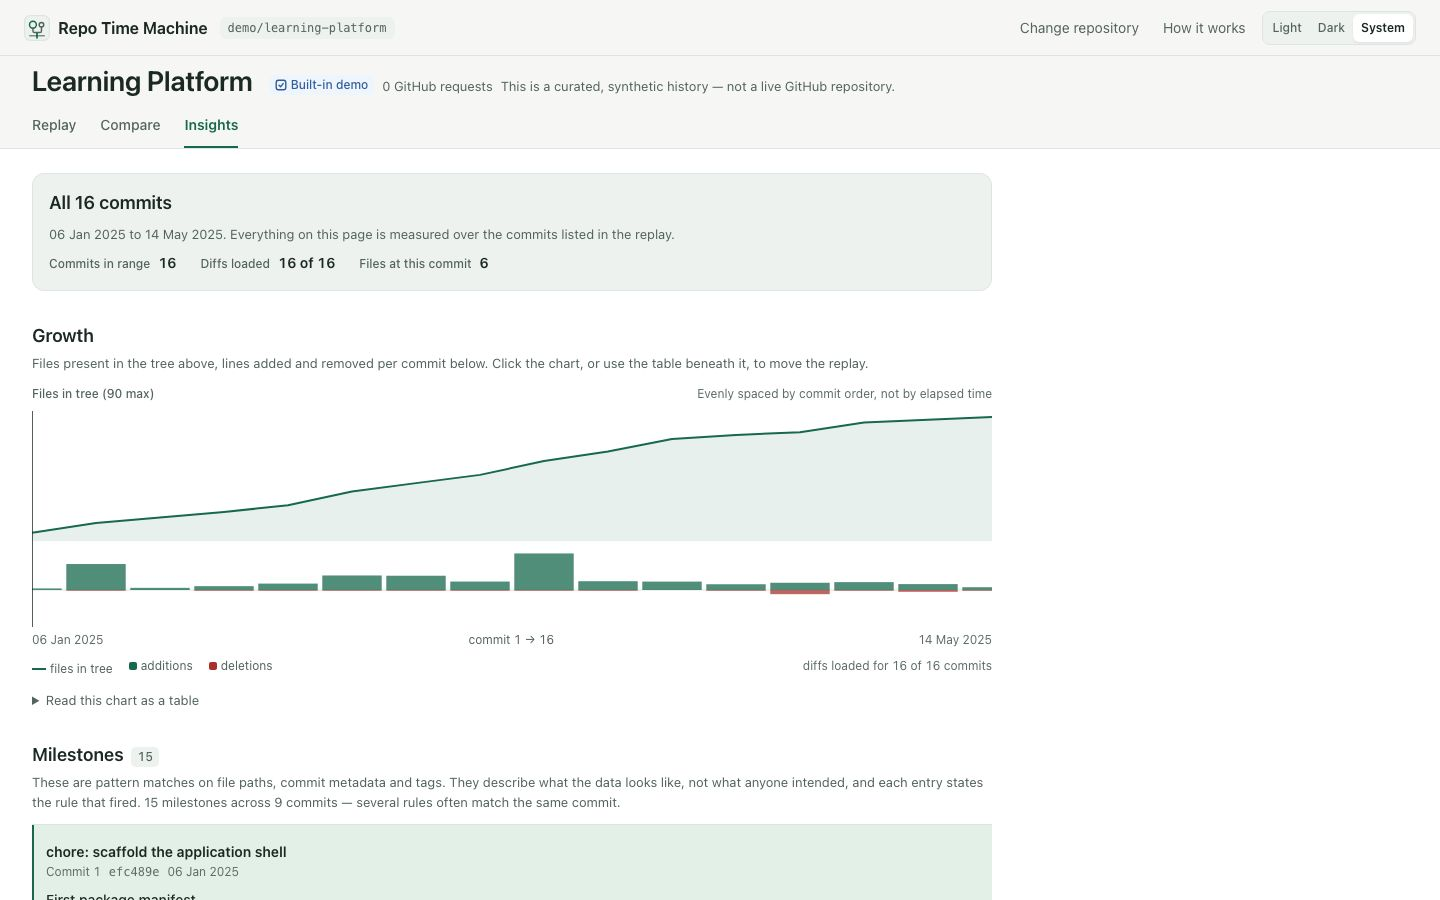
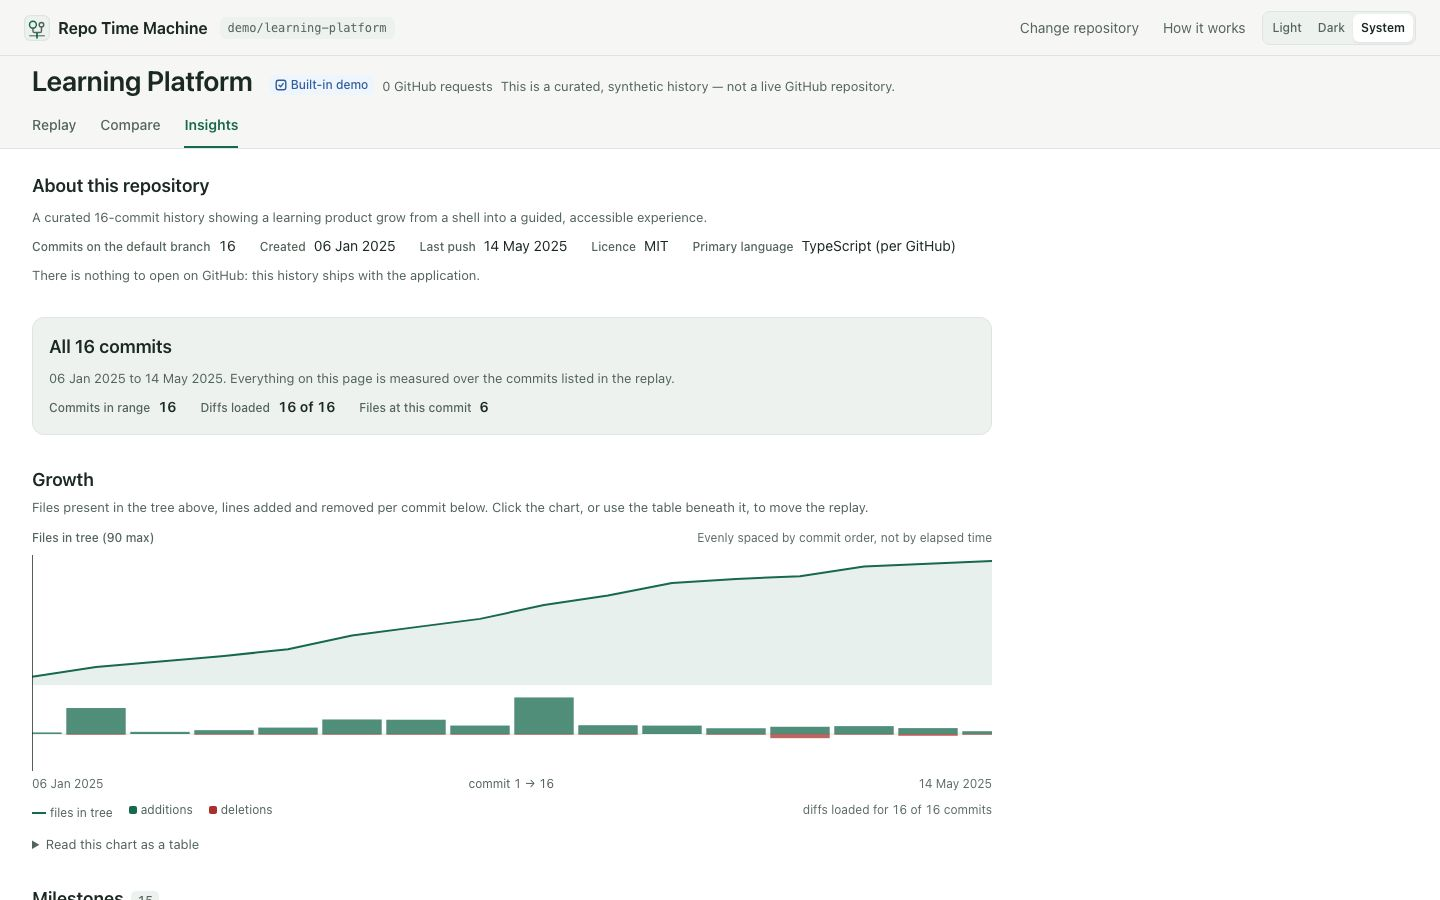
fix: say the synthetic-history disclosure once per workspace, not twice
Restoring the repository metadata put the "curated, synthetic history — not a
live GitHub repository" sentence into `Insights` as well, where the source line
under the repository's name already carries it word for word. Repeating a
disclosure does not make it more true; it makes the page longer and trains
people to skip it.

The `About this repository` block now says the thing the source line does not:
that there is nothing to open on GitHub, and why. A test pins the sentence to
exactly one occurrence per page.

diff --git a/src/components/InsightsView.tsx b/src/components/InsightsView.tsx
@@ -7,7 +7,6 @@ import type { Milestone } from '@/lib/milestones/detect';
 import type { ActivityMap, GrowthSeries } from '@/lib/stats/growth';
 import { estimateLanguages } from '@/lib/stats/growth';
 import type { Projection } from '@/lib/tree/projector';
-import { BUILTIN_DEMO } from '@/lib/demos';
 import { formatDate, formatNumber } from '@/lib/format';
 import { describeLoadedRange } from '@/lib/range';
 import { ActivityGrid, GrowthChart, LanguageBar } from './Charts';
@@ -248,7 +247,11 @@ function RepositoryFacts({ meta, totalCommits }: { meta: RepoMeta; totalCommits:
         </p>
       ) : null}
 
-      {/* No link is rendered when there is no repository to open. */}
+      {/*
+       * No link is rendered when there is no repository to open — and rather
+       * than repeat the synthetic-history sentence the source line already
+       * carries, this says the thing that is missing and why.
+       */}
       {meta.htmlUrl ? (
         <p className={styles.aboutText}>
           <a href={meta.htmlUrl} target="_blank" rel="noreferrer noopener">
@@ -256,7 +259,9 @@ function RepositoryFacts({ meta, totalCommits }: { meta: RepoMeta; totalCommits:
           </a>
         </p>
       ) : (
-        <p className={styles.aboutText}>{BUILTIN_DEMO.disclosure}</p>
+        <p className={styles.aboutText}>
+          There is nothing to open on GitHub: this history ships with the application.
+        </p>
       )}
     </section>
   );

diff --git a/e2e/tree-and-detail.spec.ts b/e2e/tree-and-detail.spec.ts
@@ -273,9 +273,12 @@ test.describe('insights', () => {
 
     await expect(page.getByRole('heading', { name: 'About this repository' })).toBeVisible();
     await expect(page.getByRole('link', { name: /on GitHub/ })).toHaveCount(0);
-    await expect(page.getByText(/curated, synthetic history/).first()).toBeVisible();
+    await expect(page.getByText(/nothing to open on GitHub: this history ships with/)).toBeVisible();
     // Star and fork counts are meaningless for invented data, so they are absent.
     await expect(page.getByText('Stars')).toHaveCount(0);
+
+    // Said once per workspace, not once per block.
+    await expect(page.getByText(/curated, synthetic history — not a live GitHub repository/)).toHaveCount(1);
   });
 
   test('offers a text alternative for the growth chart', async ({ page }) => {
